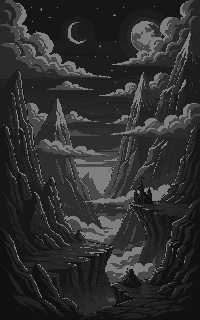
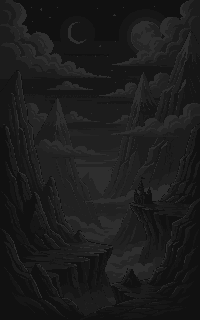
Шут: фон тише — тоны до #2E2E2E
До #808080 фон спорил со сценой: Шут, облака и дождь терялись.

diff --git a/src/minigames/fool/scenery.js b/src/minigames/fool/scenery.js
@@ -81,7 +81,8 @@ function drawLayer(ctx, images, L, w, h, camX, t) {
 }
 
 /** Дальний фон (Pixen по референсам, правка 29.09; тоны — tools/pixel-grid.py
- * --ramp до #808080): верх картинки у верха кадра, ниже — её нижний тон,
+ * --ramp до #2E2E2E, «тихий» — правка 30.09: до #808080 фон спорил
+ * со сценой): верх картинки у верха кадра, ниже — её нижний тон,
  * который и так закрывает пропасть (abyss.js, от 0.8 кадра). У верха —
  * чтобы облака картинки не обрезались посреди экрана о заливку.
  * Почти не движется (parallax 0.04 по x, 0.03 по y). Шире экрана — одной
